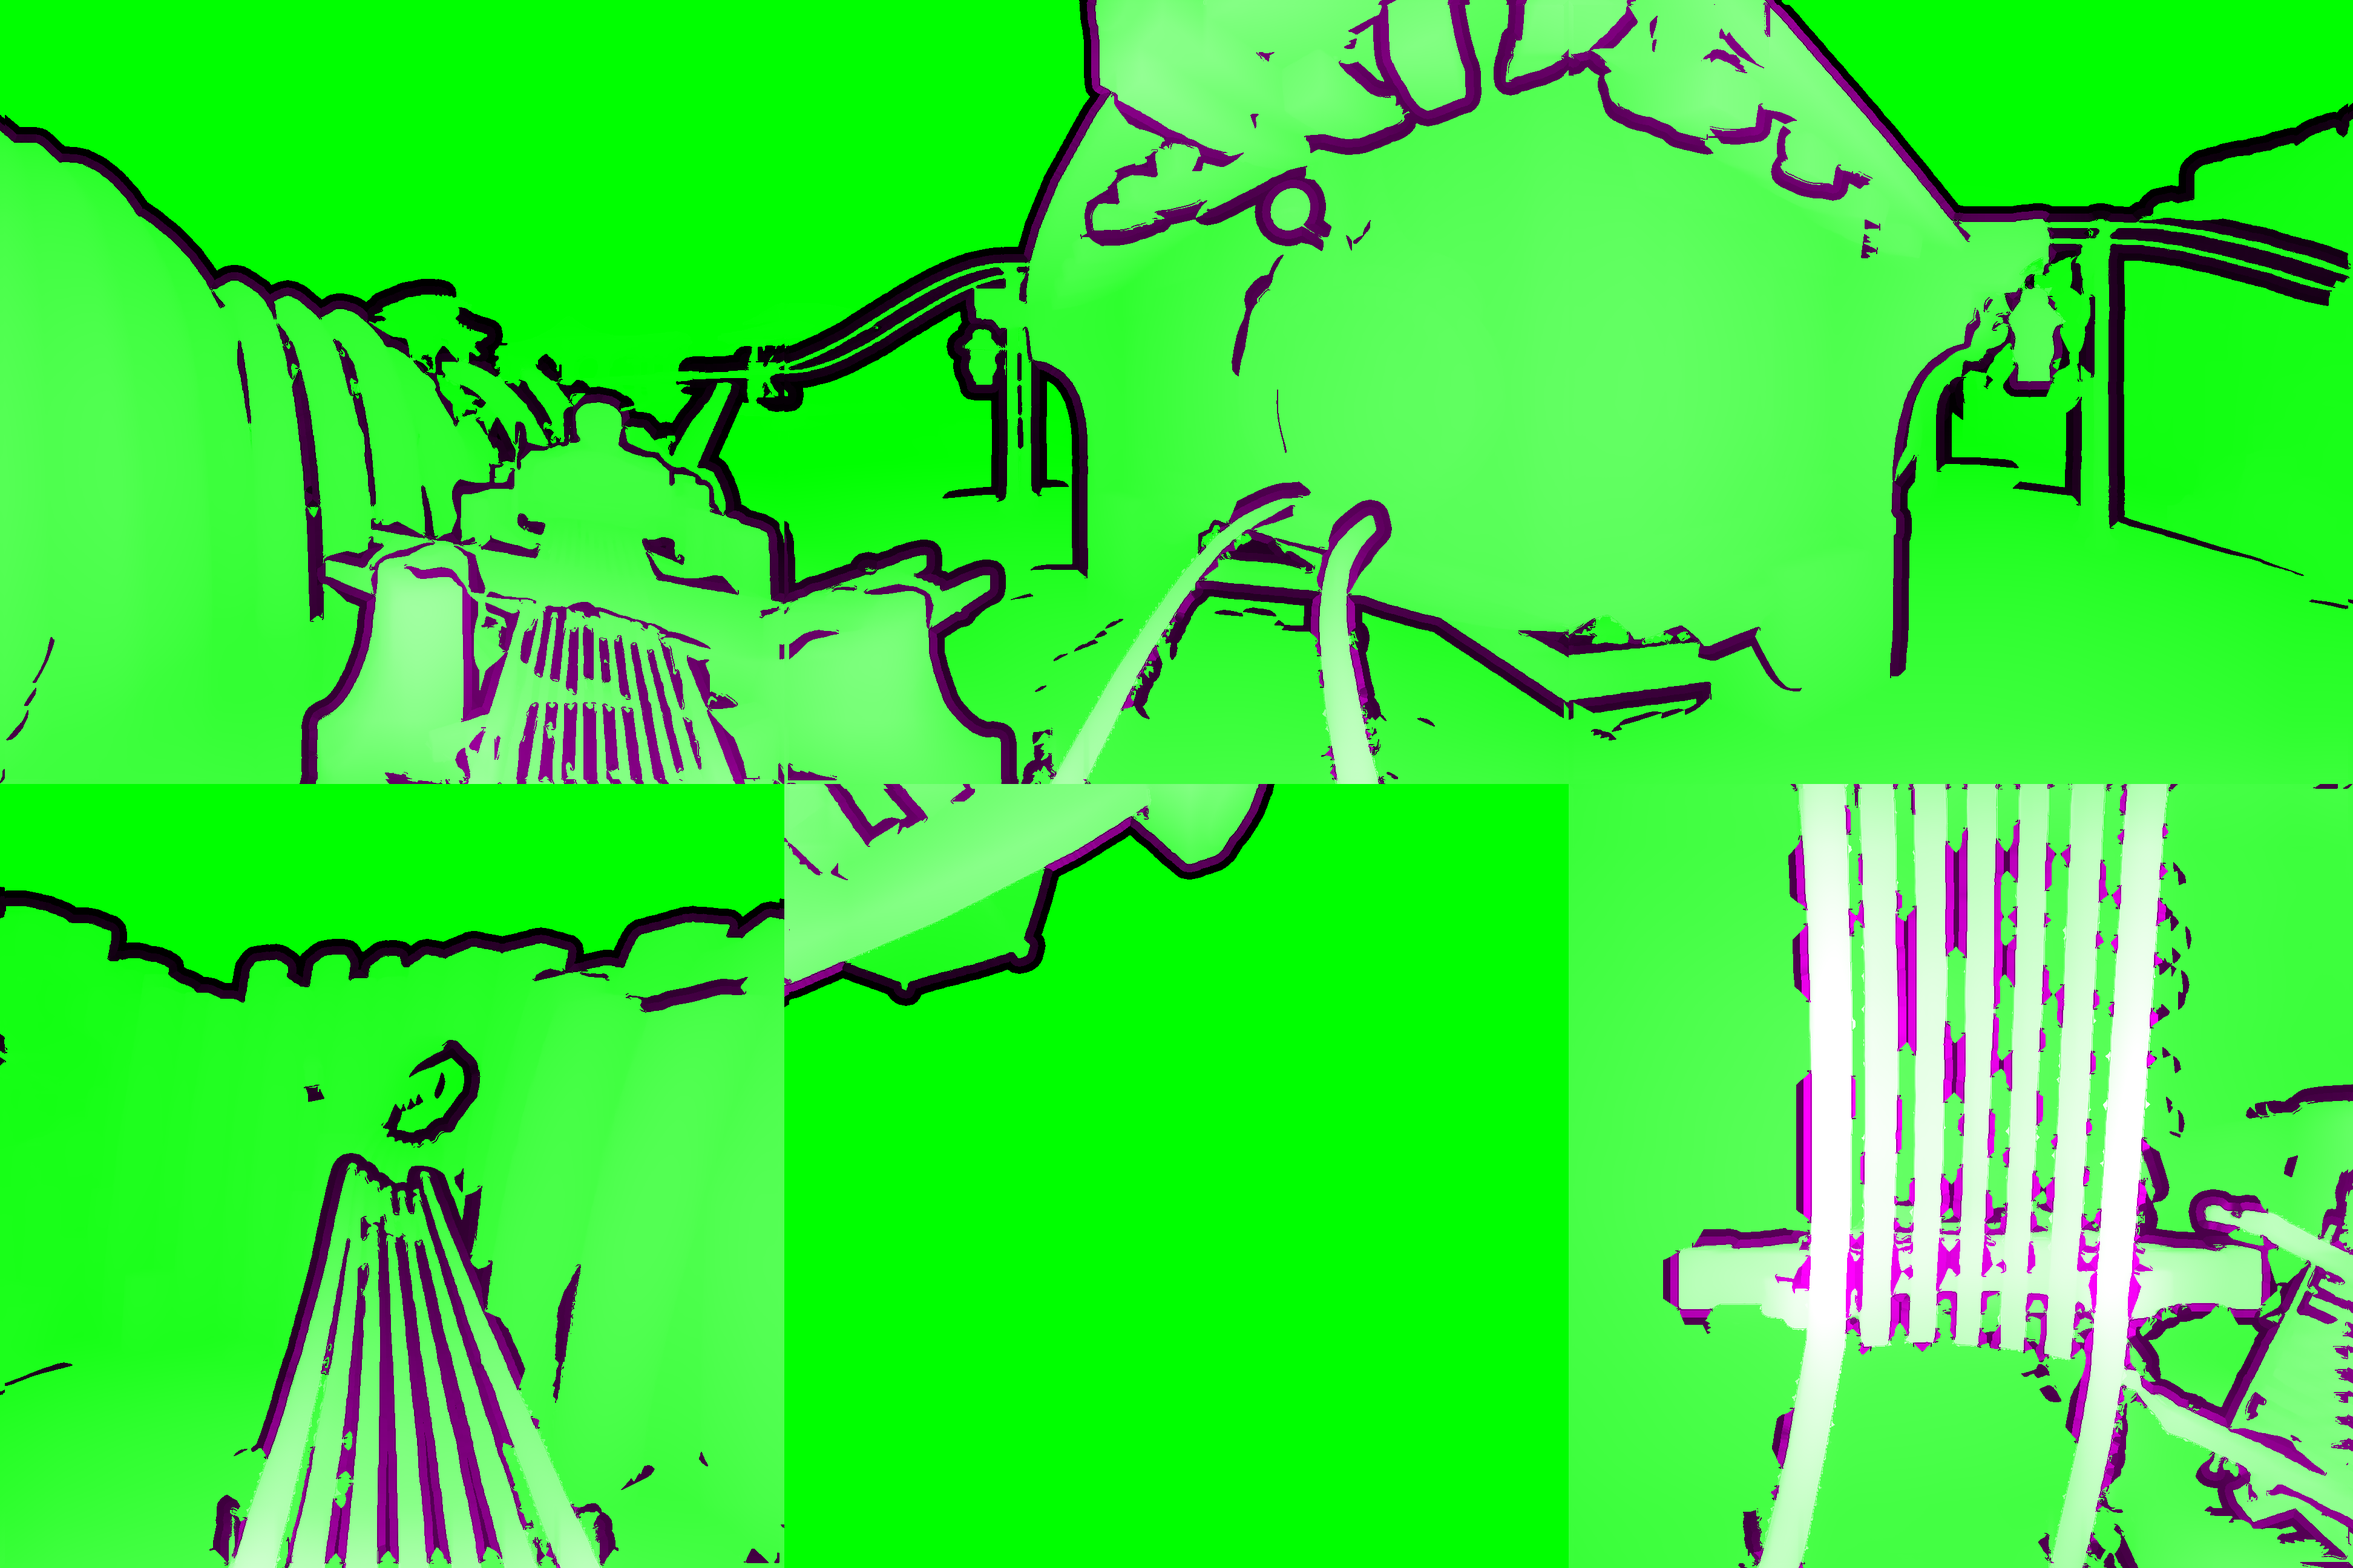
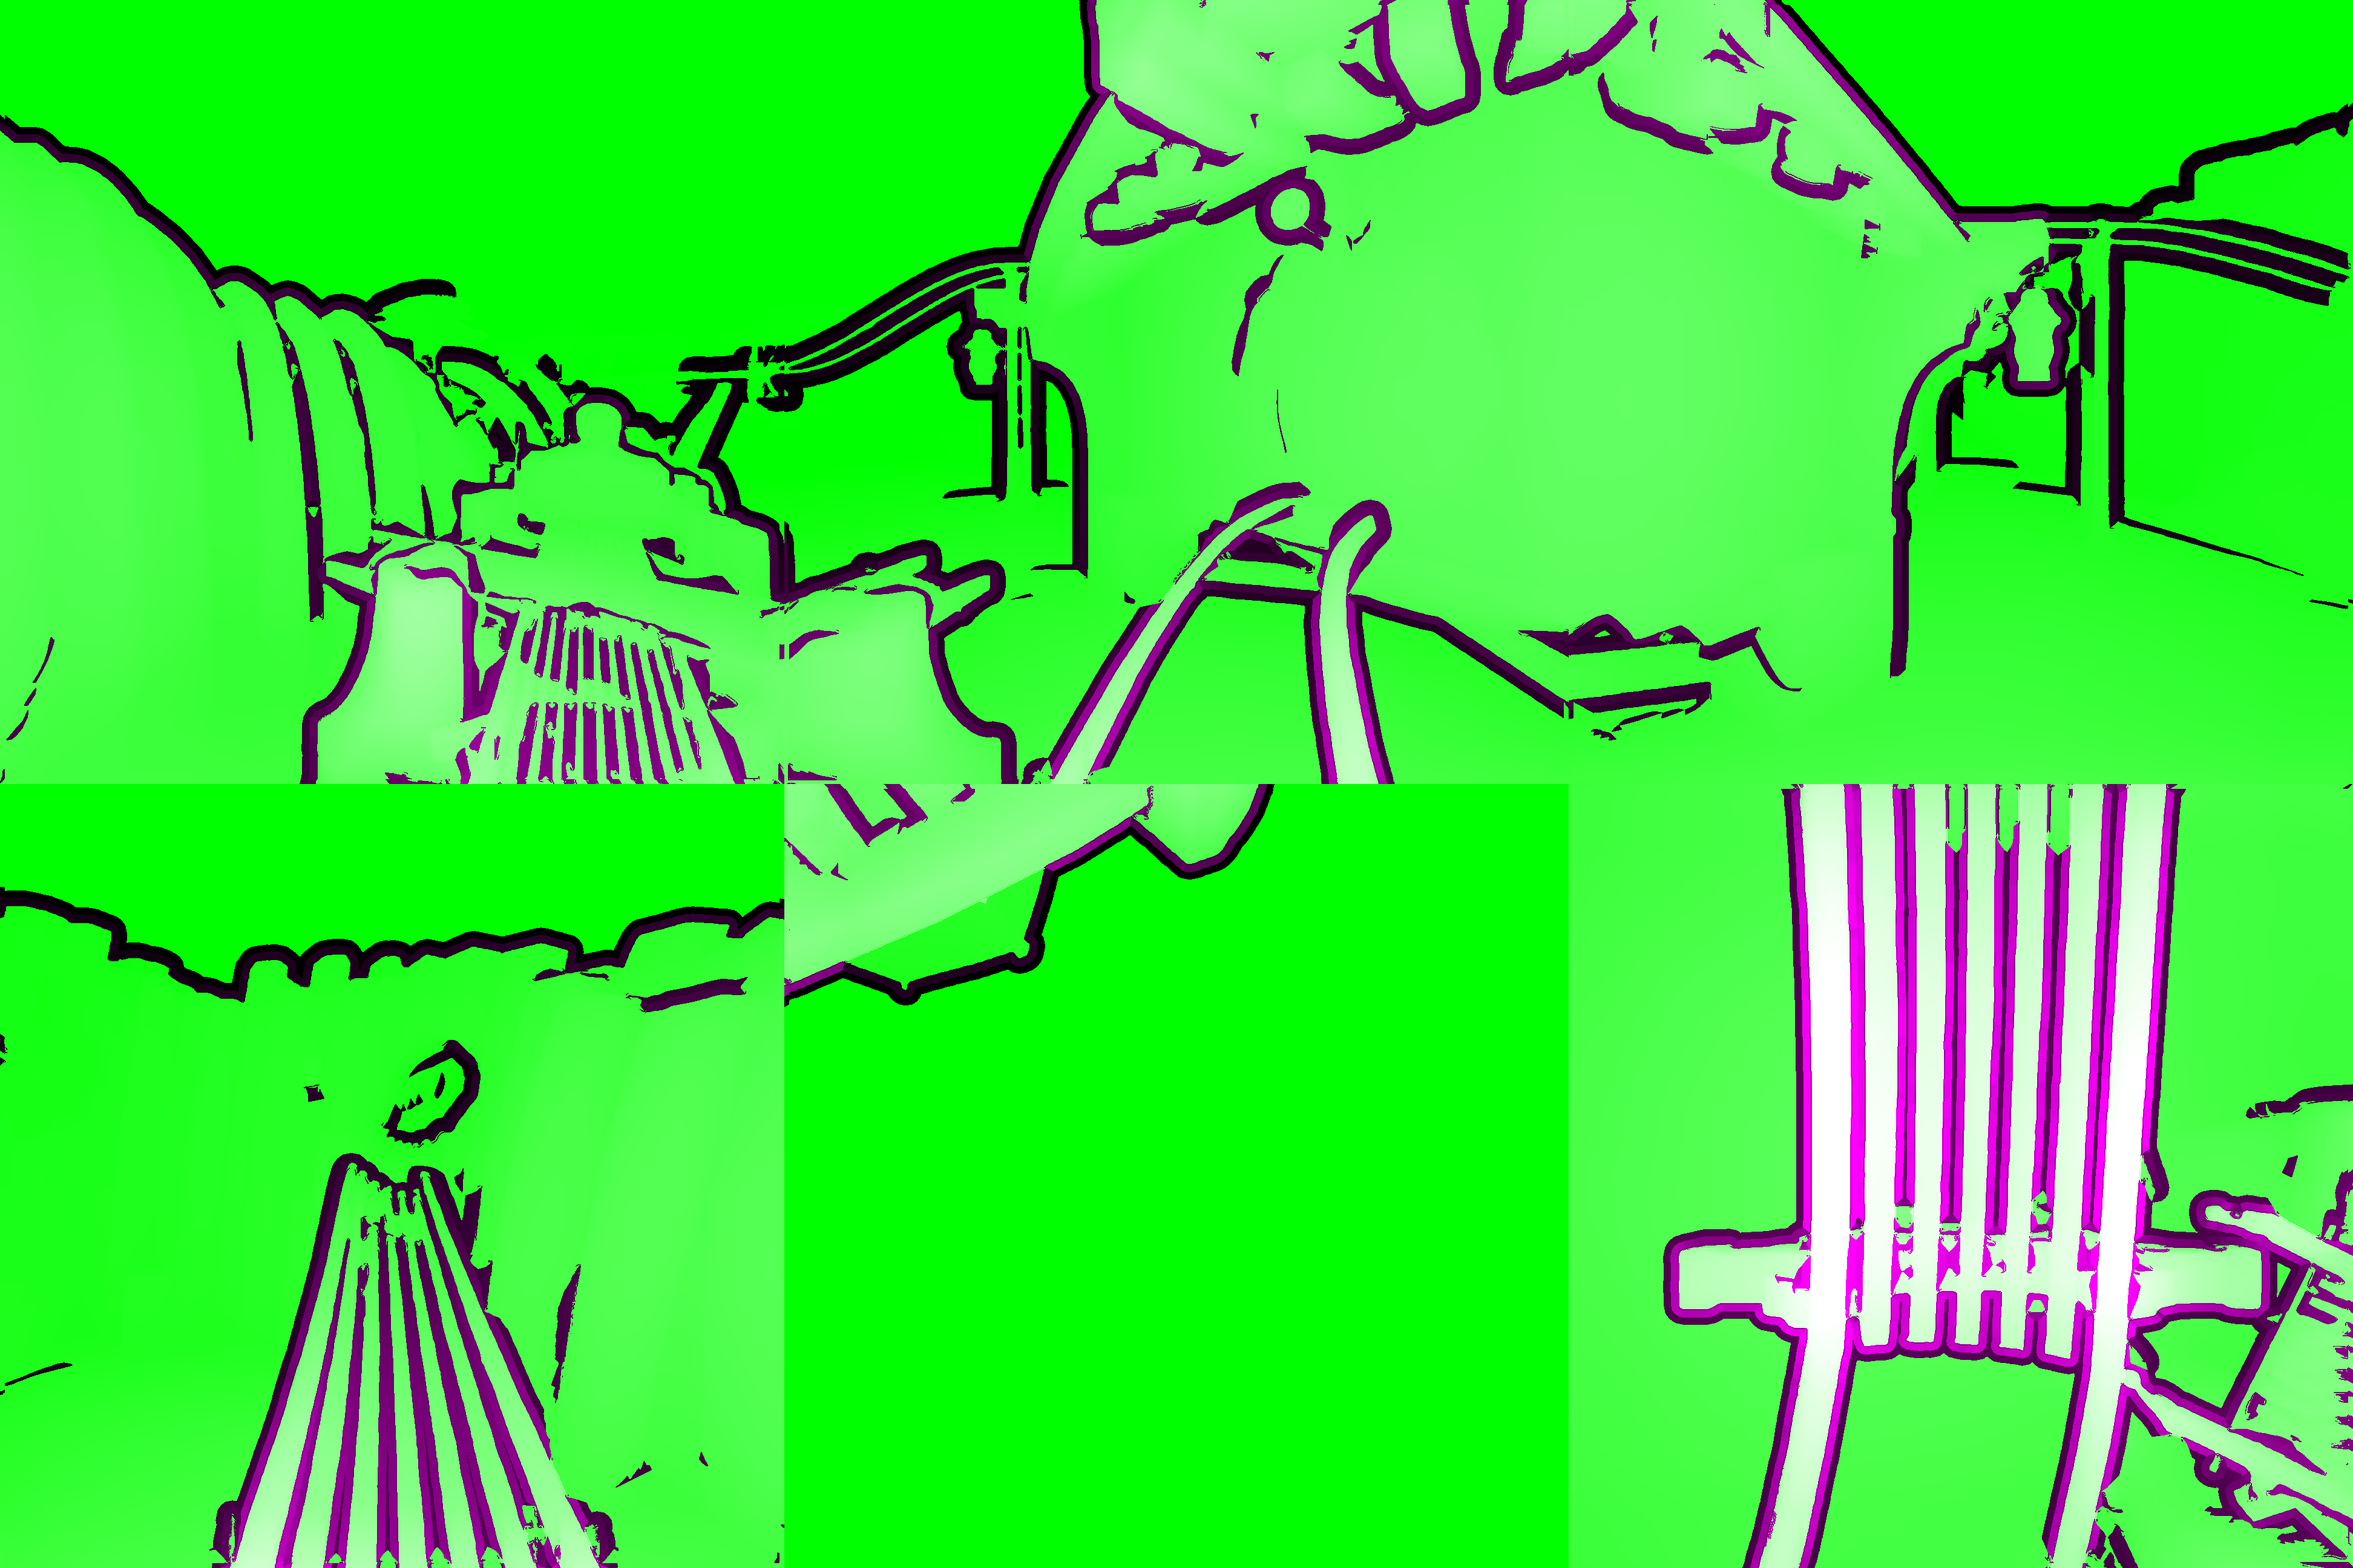
Layered nodes: the far side of a step is never part of the near object
Down MASS 84's floor gaps the sea's depth varies by about the 0.4 by which a
pixel had to read nearer than the far side to join a near object. So
stretches of gap joined the slats through the steep pixel between, and the
holes along the gaps came out in pieces. Far-side pixels are now kept out (a
middle layer that belongs to the near object is still added). The floor's
holes are full strips down every gap.

Claude-Session: https://claude.ai/code/session_01PGTZsQJKeQ77ippduWGzGV

diff --git a/cube/myst3/layers/build_layers.py b/cube/myst3/layers/build_layers.py
@@ -256,6 +256,13 @@ def removed_region(q, t, band, reach, belong=0.5):
     fq_of = np.zeros(order.max() + 1, np.float32); fq_of[order] = qmin[ys, xs]
     fq = fq_of[lab]
     nearer = q > fq + t / 2
+    # The far side of a step is never part of the near object. The test above
+    # asks only for t/2 more than the far side's least q; down MASS 84's floor
+    # gaps the sea's depth varies by about that, so stretches of gap passed,
+    # joined the slat through the steep pixel between, and got no hole: the
+    # holes along the gaps came out in pieces. (A middle layer that belongs
+    # to the near object is still added below.)
+    nearer &= ~far
     if reach > 0:
         # The farthest far side within reach, and the q of the nearest near side.
         BIG = np.float32(1e6)

diff --git a/cube/myst3/README.md b/cube/myst3/README.md
@@ -1003,9 +1003,16 @@ the slat. `build_layers.py` finds steps of over 0.8 between pixels 2 apart, so
 a strip of every slat read as the far side of a step. The near objects broke
 into half-disc blobs, and the holes cut round them fell on the wood. The steps
 are now found on the depth after a 5 px median, which takes thin ridges away
-and leaves steps where they are; the depth itself is unchanged. On the floor
-the holes now lie in the gaps between the slats (10.2% of the face, against
-10.9%), and the slats are whole. The other faces lose a few stray fragments.
+and leaves steps where they are; the depth itself is unchanged. The slats were
+then whole, but the gaps had holes only in pieces. A pixel joined a near
+object when it read t/2 (0.4) nearer than the far side's least q. Down the
+gaps the sea's depth varies by about that much, so stretches of gap passed
+the test and joined the slat through the steep pixel between. They got no
+hole. Pixels on the far side of a step are now never part of the near
+object; a middle layer that belongs to it is still added, for ENSI 16's pod
+frame. The floor's holes are now full strips down every gap: 20.4% of the
+face, against 10.9% in the build before these changes. On the other faces
+the holes change by about a point or less.
 This applies to every node built from now on; ENSI 16, LEIS 77 and MAWW 101
 have not been rebuilt with it.
 
